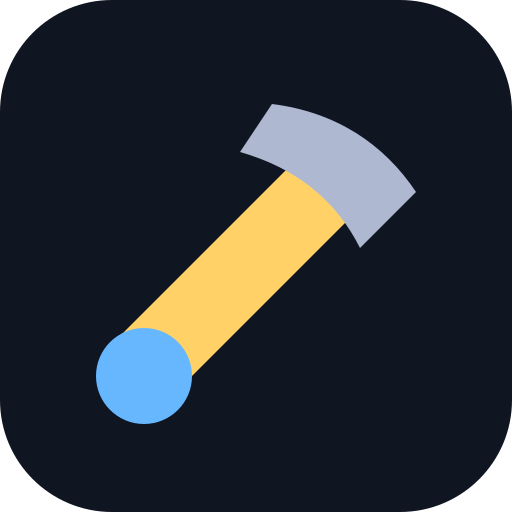
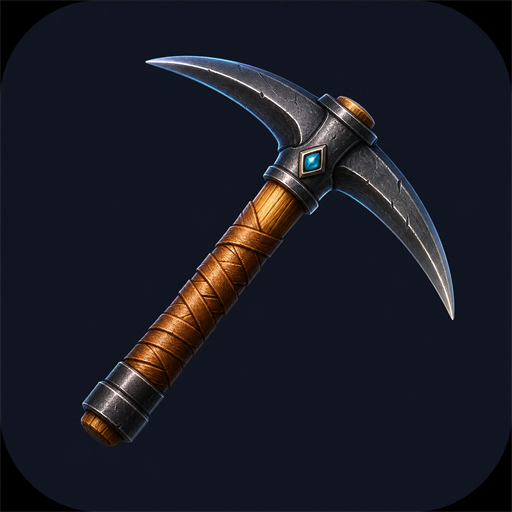
Add files via upload

diff --git a/index.html b/index.html
@@ -11,12 +11,12 @@
 <meta name="apple-mobile-web-app-capable" content="yes" />
 <meta name="apple-mobile-web-app-status-bar-style" content="black-translucent" />
 <meta name="apple-mobile-web-app-title" content="Japanese Miner" />
-<link rel="icon" href="favicon.svg" type="image/svg+xml" />
+<link rel="icon" href="icon-192.png" type="image/png" />
 <link rel="apple-touch-icon" sizes="180x180" href="icon-180.png" />
 <link rel="manifest" href="manifest.webmanifest" />
-<link rel="stylesheet" href="styles.css?v=6.4.32-menu-button-restored" />
-<link rel="stylesheet" href="v5.css?v=6.4.32-menu-button-restored" />
-<link rel="stylesheet" href="v6-6460.css?v=6.4.32-menu-button-restored" />
+<link rel="stylesheet" href="styles.css?v=6.4.33-advanced-pickaxe-icon" />
+<link rel="stylesheet" href="v5.css?v=6.4.33-advanced-pickaxe-icon" />
+<link rel="stylesheet" href="v6-6460.css?v=6.4.33-advanced-pickaxe-icon" />
 
 </head>
 <body>
@@ -56,7 +56,7 @@
     <h1>⛏ Japanese Miner</h1>
     <div class="subtitle">Learn Japanese. Mine gems. Rise from Hiragana to JLPT N1.</div>
   </div>
-  <div class="account-chip"><span class="build-badge">v6.4.32 · Menu Button Restored</span><span>👤 <b id="activePlayerName">Not signed in</b></span><button id="installAppBtn" class="install-app-btn" type="button" hidden>📲 Install App</button><button id="headerStatsBtn" type="button" title="Open quick stats">📊 Stats</button><button id="studyCalendarBtn" type="button" title="Open the study calendar">📅 Calendar</button><button id="developerBtn" class="developer-only" type="button" hidden>👑 Admin</button><button id="logoutBtn" type="button">Log out</button></div>
+  <div class="account-chip"><span class="build-badge">v6.4.33 · Advanced Pickaxe Icon</span><span>👤 <b id="activePlayerName">Not signed in</b></span><button id="installAppBtn" class="install-app-btn" type="button" hidden>📲 Install App</button><button id="headerStatsBtn" type="button" title="Open quick stats">📊 Stats</button><button id="studyCalendarBtn" type="button" title="Open the study calendar">📅 Calendar</button><button id="developerBtn" class="developer-only" type="button" hidden>👑 Admin</button><button id="logoutBtn" type="button">Log out</button></div>
 </header>
 
 <button id="quickMineBtn" class="quick-mine-btn" type="button" aria-label="Start or return to the current question">⛏ <span id="quickMineLabel">New Question</span></button>
@@ -321,14 +321,14 @@
   </section>
 </div>
 
-<div class="footer">Japanese Miner v6.4.32 — Menu access is restored for every player. Daily Refresher now revisits the previous study session without microphone, timer, heart loss, or lesson penalties. <a href="THIRD-PARTY-NOTICES.txt" target="_blank" rel="noopener">Third-party notices</a></div>
+<div class="footer">Japanese Miner v6.4.33 — A forged, gem-set pickaxe now represents the game across app and browser icons. Daily Refresher now revisits the previous study session without microphone, timer, heart loss, or lesson penalties. <a href="THIRD-PARTY-NOTICES.txt" target="_blank" rel="noopener">Third-party notices</a></div>
 </div>
 
-<script src="n5-vocabulary-1000.js?v=6.4.32-menu-button-restored" defer></script>
-<script src="game-6460.js?v=6.4.32-menu-button-restored" defer></script>
-<script src="v5-6400.js?v=6.4.32-menu-button-restored" defer></script>
-<script src="v6.js?v=6.4.32-menu-button-restored" defer></script>
-<script src="recovery-6460.js?v=6.4.32-menu-button-restored" defer></script>
+<script src="n5-vocabulary-1000.js?v=6.4.33-advanced-pickaxe-icon" defer></script>
+<script src="game-6460.js?v=6.4.33-advanced-pickaxe-icon" defer></script>
+<script src="v5-6400.js?v=6.4.33-advanced-pickaxe-icon" defer></script>
+<script src="v6.js?v=6.4.33-advanced-pickaxe-icon" defer></script>
+<script src="recovery-6460.js?v=6.4.33-advanced-pickaxe-icon" defer></script>
 <script>if("serviceWorker" in navigator){window.addEventListener("load",()=>navigator.serviceWorker.register("./sw.js").catch(()=>{}));}</script>
 
 </body>

diff --git a/v6.js b/v6.js
@@ -1,7 +1,7 @@
 // Japanese Miner v6.0 — The Polish Update
 (()=>{
 'use strict';
-const VERSION='6.4.32-menu-button-restored', SNAPSHOT_PREFIX='jm_v6_snapshots_', FEEDBACK_INBOX_KEY='jm_v6_admin_feedback_inbox', FEEDBACK_INBOX_LIMIT=200;
+const VERSION='6.4.33-advanced-pickaxe-icon', SNAPSHOT_PREFIX='jm_v6_snapshots_', FEEDBACK_INBOX_KEY='jm_v6_admin_feedback_inbox', FEEDBACK_INBOX_LIMIT=200;
 let deferredInstallPrompt=null;
 const TOUR=[
  {section:'Getting started',icon:'⛏',title:'Welcome to Japanese Miner',text:'Answer Japanese questions, build mastery, collect scientific gemstones, and progress from Hiragana through JLPT N1.',tips:['Create or sign in to a local player profile so every feature uses the same save.','Tap New Question or the mine rock to begin the selected course route.','Use the round menu button at the bottom-right whenever you need another game area.']},
@@ -70,6 +70,7 @@ function coachAction(a){if(a==='mine'){mine();document.getElementById('challenge
 // v6.4.28 - Matched Kōji's launcher dimensions to the round menu button.
 // v6.4.29 - Removed the separate N5 learning-track selector and its UI wiring.
 // v6.4.30 - Tutor curriculum controls are created only for the authenticated owner account.
+// v6.4.33 - Advanced forged pickaxe artwork replaces the original launcher icon.
 // v6.4.32 - Menu access remains available when optional quick-stat controls are absent.
 // v6.4.31 - Review now refreshes the previous study session without microphone or speaking tests.
 // v6.4.26 - Boss Gate and lesson-review questions advance automatically after answers.

diff --git a/sw.js b/sw.js
@@ -1,4 +1,4 @@
-const CACHE_NAME='japanese-miner-v6.4.32-menu-button-restored';
+const CACHE_NAME='japanese-miner-v6.4.33-advanced-pickaxe-icon';
 const APP_SHELL=[
   './',
   './index.html',
@@ -13,8 +13,7 @@ const APP_SHELL=[
   './manifest.webmanifest',
   './icon-180.png',
   './icon-192.png',
-  './icon-512.png',
-  './favicon.svg'
+  './icon-512.png'
 ];
 
 self.addEventListener('install',event=>{
